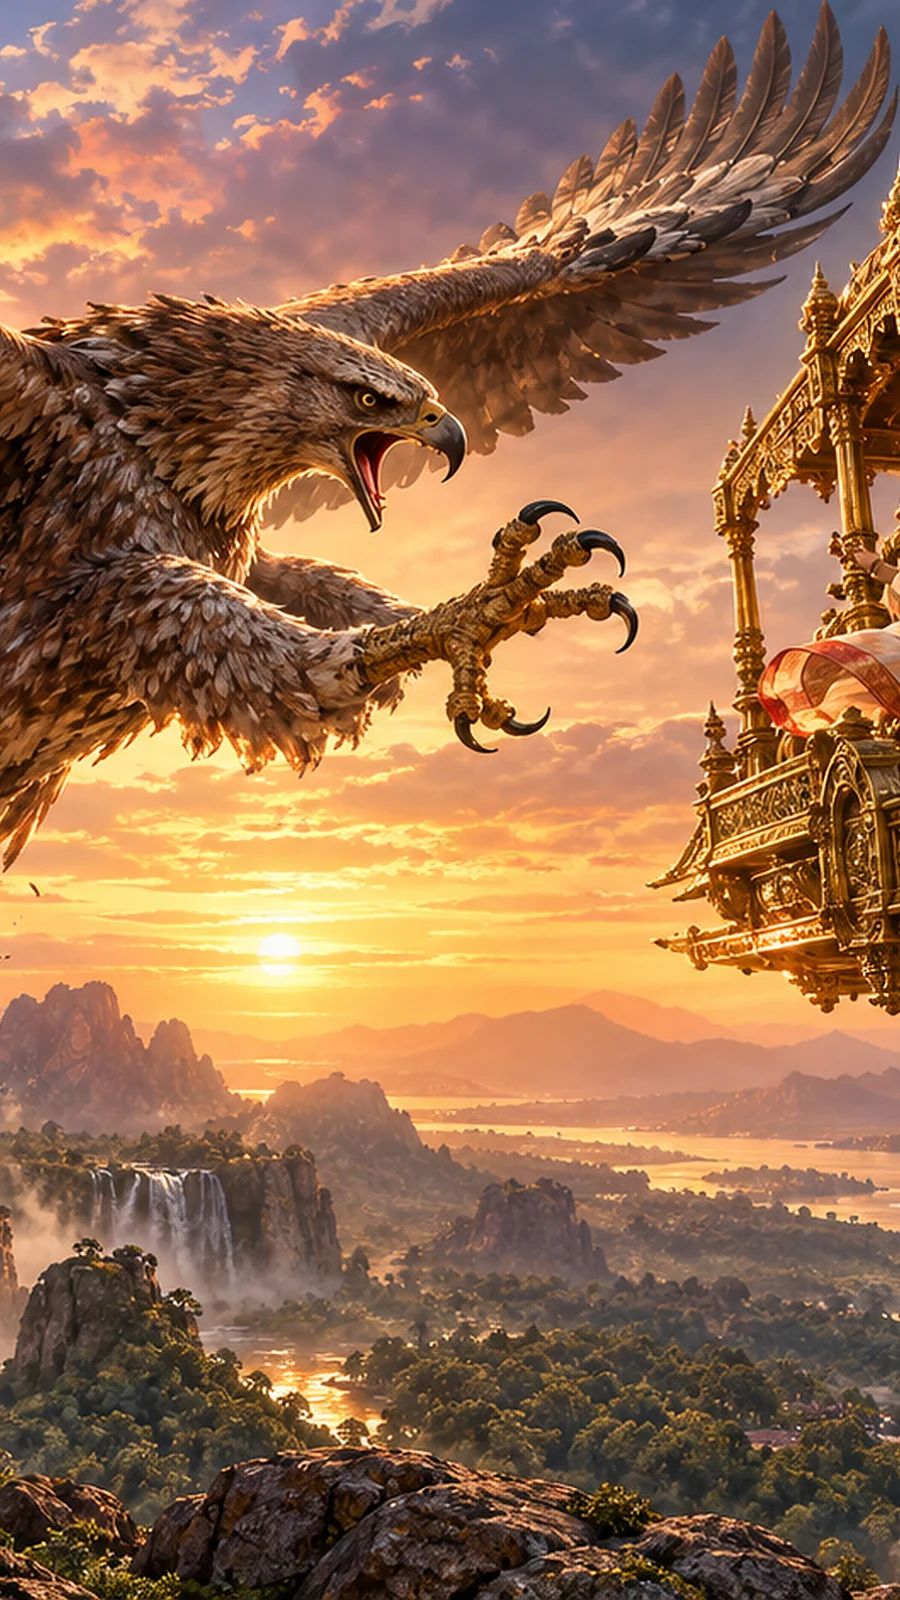
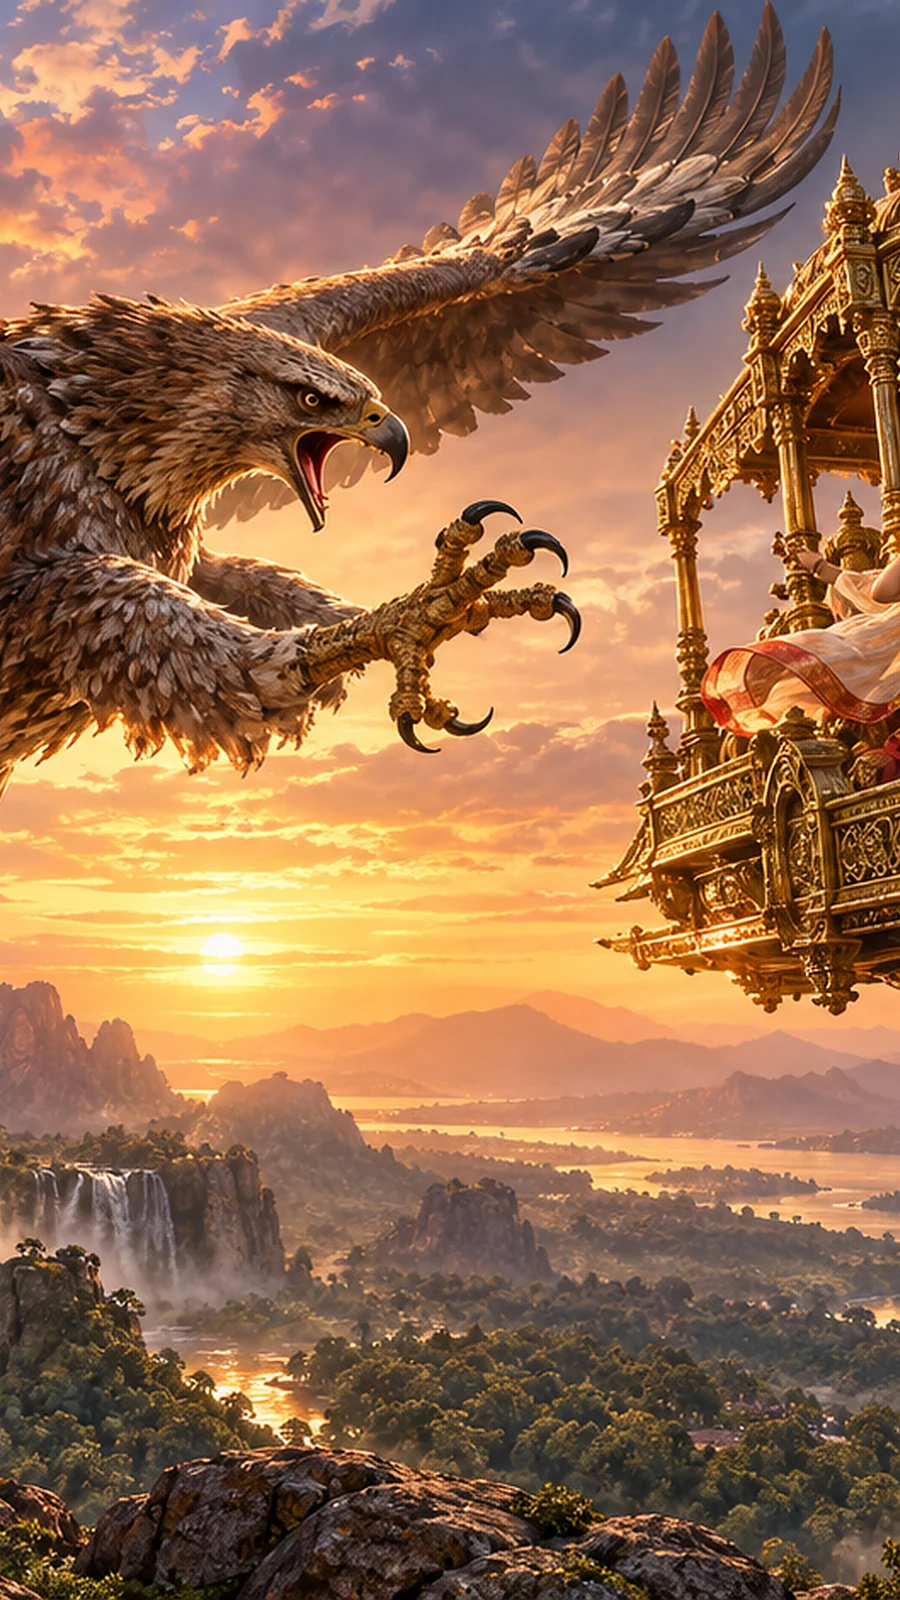
Part 3 of 5, and a focal point that was measuring the wrong thing
Five new pictures: Shabari's offering, the Mithila and Vanvaas chapters,
and the Vanavasa and Lanka world plates. Two sources/ copies hash
identical to in-use files already applied, so they are no-ops.

The focal point is now measured from DETAIL, not brightness, and every
picture from parts 1-3 is regenerated with it.

Found by looking at the output rather than the numbers. A luminance
centroid asks "where is the light", and in these paintings the light is
the sky, the water or the fire -- the subject is usually standing in
front of it. On the Vanvaas chapter the waterfall pulled the centroid to
0.61, and the phone crop taken around it cut Rama out of his own
chapter, leaving Sita and Lakshmana walking beside a gap. A local
gradient asks "where is the picture busiest", which figures, faces and
architecture answer and an open sky does not; saturation is folded in at
half weight so a painted figure outscores an equally busy patch of rock.
All fifteen portraits were checked on one contact sheet afterwards, and
every one keeps its subject.

The old code carried a hand-tuned focal on Vanvaas with a comment saying
it was pushed left so the figures would survive the crop. That was a
patch over this bug in the previous art. It is gone, and the comment now
records the cause.

Vanavasa is no longer a photograph. It was the last third-party picture
in the set -- Mystic Layers of Agumbe, CC0, by Pradyumnakp -- and the
[…]

diff --git a/frontend/src/themes/pinaka/assets/plates/index.ts b/frontend/src/themes/pinaka/assets/plates/index.ts
@@ -2,10 +2,11 @@
  * Pinaka theme — world plates.
  *
  * One picture per world plus the hero behind the sign-in page and the intro:
- * the official event paintings — the temple-city key art for Ayodhya, the
- * bridge to the far shore (Setu), the return (Vijaya) and the hero, Lanka
- * ablaze for Lanka — and one colour-graded photograph, the forest of
- * Vanavasa.
+ * every one of them an official event painting now — the temple-city key
+ * art for Ayodhya, the forest years for Vanavasa, and Lanka ablaze for
+ * Lanka. Vanavasa was the last photograph in the set (a CC0 frame of the
+ * Western Ghats at Agumbe) until the organisers painted that world for
+ * the final pack, so the set carries no third-party picture at all.
  * Every file is a same-origin asset bundled by Vite (a 1920 px and a 960 px
  * WebP, cover-cropped around `focal`). Licences and
  * sources are recorded here and in docs/pinaka/ASSETS.md; the untouched
@@ -43,7 +44,7 @@ const TEMPLE_ART: Plate = {
   width: 1920,
   height: 1080,
   alt: "Pinaka CTF key art: Rama, Sita and Lakshmana on the lamplit steps above the water, the temple-city of Ayodhya across the lake at sunset",
-  focal: { x: 0.5, y: 0.456 },
+  focal: { x: 0.475, y: 0.526 },
   sun: { x: 0.406, y: 0.281 },
   credit: {
     title: "Pinaka CTF 2026 key art",
@@ -122,17 +123,20 @@ export const PLATES: Record<PlateKey, Plate> = {
     portrait: vanavasaPortrait,
     width: 1920,
     height: 1080,
-    alt: "Mist rolling over layered forested hills of the Western Ghats at Agumbe, seen through foreground foliage",
-    focal: { x: 0.55, y: 0.45 },
-    // The light falls from the bright haze above the far ridge.
-    sun: { x: 0.5, y: -0.22 },
+    alt: "Rama, Lakshmana and Sita walking a forest trail at sunrise above a valley of waterfalls, a deer in the undergrowth",
+    focal: { x: 0.465, y: 0.53 },
+    sun: { x: 0.906, y: 0.156 },
+    // No longer the Agumbe photograph. The organisers painted this world
+    // themselves in the final pack, so the credit follows the picture: a
+    // CC0 photographer's name left on artwork they did not make would be
+    // a false record, which is what this field exists to prevent.
     credit: {
-      title: "Mystic Layers of Agumbe",
-      author: "Pradyumnakp",
-      license: "CC0",
-      licenseUrl: "http://creativecommons.org/publicdomain/zero/1.0/deed.en",
-      sourceUrl: "https://commons.wikimedia.org/wiki/File:Mystic_Layers_of_Agumbe.jpg",
-      photo: true,
+      title: "Vanavasa — the forest years",
+      author: "Pinaka CTF · NFSU Chennai",
+      license: "Official event artwork",
+      licenseUrl: "https://pinakactf.com/",
+      sourceUrl: "https://pinakactf.com/",
+      photo: false,
     },
   },
   setu: TEMPLE_ART,
@@ -145,8 +149,8 @@ export const PLATES: Record<PlateKey, Plate> = {
     height: 1080,
     alt: "Pinaka CTF artwork: the fortress of Lanka ablaze above a smoking battlefield",
     // keeps the fortress and the fire on wide screens, the burning gate on phones
-    focal: { x: 0.42, y: 0.4 },
-    sun: { x: 0.8, y: 0.48 },
+    focal: { x: 0.483, y: 0.517 },
+    sun: { x: 0.719, y: 0.156 },
     credit: {
       title: "Lanka ablaze — Pinaka CTF 2026 artwork",
       author: "Pinaka CTF · NFSU Chennai",
@@ -205,7 +209,8 @@ export function chapterPlateKey(id: ChapterId): ChapterPlateKey {
   return `chapter-${id}`;
 }
 
-/* The on-screen credit line is gone — the one photograph in the set is
-   CC0, a public-domain dedication, which asks for no attribution. Every
-   plate still carries its own `credit`, and docs/pinaka/ASSETS.md remains
-   the record of where each picture came from. */
+/* The on-screen credit line is gone, and now there is nothing it could
+   have said: every plate in the set is the organisers' own artwork. The
+   last third-party picture was Vanavasa's CC0 photograph, which asked for
+   no attribution either. Every plate still carries its own `credit`, and
+   docs/pinaka/ASSETS.md remains the record of where each came from. */

diff --git a/frontend/src/themes/pinaka/assets/scenes/index.ts b/frontend/src/themes/pinaka/assets/scenes/index.ts
@@ -103,7 +103,7 @@ export const SCENE_PLATES: Record<SceneId, Plate> = {
     w3840: goldenDeer3840, w1920: goldenDeer1920, w960: goldenDeer960, portrait: goldenDeerPortrait,
     width: 1920, height: 1080,
     alt: 'Pinaka CTF battle scene: a golden deer in a sunlit forest glade, a hermitage and waterfall beyond',
-    focal: { x: 0.519, y: 0.43 },
+    focal: { x: 0.476, y: 0.528 },
     sun: { x: 0.594, y: 0.031 },
     credit: {
       title: 'Pinaka CTF 2026 battle scenes',
@@ -118,7 +118,7 @@ export const SCENE_PLATES: Record<SceneId, Plate> = {
     w3840: jatayu3840, w1920: jatayu1920, w960: jatayu960, portrait: jatayuPortrait,
     width: 1920, height: 1080,
     alt: 'Pinaka CTF battle scene: a great bird fallen among rocks at dusk',
-    focal: { x: 0.47, y: 0.474 },
+    focal: { x: 0.49, y: 0.491 },
     sun: { x: 0.406, y: 0.594 },
     credit: {
       title: 'Pinaka CTF 2026 battle scenes',
@@ -133,8 +133,8 @@ export const SCENE_PLATES: Record<SceneId, Plate> = {
     w3840: shabari3840, w1920: shabari1920, w960: shabari960, portrait: shabariPortrait,
     width: 1920, height: 1080,
     alt: 'Pinaka CTF battle scene: Shabari offering berries to two travellers outside her hut',
-    focal: { x: 0.675, y: 0.398 },
-    sun: { x: 0.969, y: 0.156 },
+    focal: { x: 0.494, y: 0.53 },
+    sun: { x: 0.156, y: 0.156 },
     credit: {
       title: 'Pinaka CTF 2026 battle scenes',
       author: 'Pinaka CTF · NFSU Chennai',
@@ -148,7 +148,7 @@ export const SCENE_PLATES: Record<SceneId, Plate> = {
     w3840: hanumanLeap3840, w1920: hanumanLeap1920, w960: hanumanLeap960, portrait: hanumanLeapPortrait,
     width: 1920, height: 1080,
     alt: 'Pinaka CTF battle scene: a vast leap across open sea from a cliff',
-    focal: { x: 0.509, y: 0.443 },
+    focal: { x: 0.447, y: 0.53 },
     sun: { x: 0.656, y: 0.406 },
     credit: {
       title: 'Pinaka CTF 2026 battle scenes',
@@ -163,7 +163,7 @@ export const SCENE_PLATES: Record<SceneId, Plate> = {
     w3840: ashokaVatika3840, w1920: ashokaVatika1920, w960: ashokaVatika960, portrait: ashokaVatikaPortrait,
     width: 1920, height: 1080,
     alt: 'Pinaka CTF battle scene: a woman seated beneath a tree in a guarded palace garden',
-    focal: { x: 0.575, y: 0.532 },
+    focal: { x: 0.483, y: 0.541 },
     sun: { x: 0.906, y: 0.094 },
     credit: {
       title: 'Pinaka CTF 2026 battle scenes',
@@ -178,7 +178,7 @@ export const SCENE_PLATES: Record<SceneId, Plate> = {
     w3840: lankaDahan3840, w1920: lankaDahan1920, w960: lankaDahan960, portrait: lankaDahanPortrait,
     width: 1920, height: 1080,
     alt: 'Pinaka CTF battle scene: a city skyline taken by fire',
-    focal: { x: 0.509, y: 0.462 },
+    focal: { x: 0.486, y: 0.509 },
     sun: { x: 0.719, y: 0.094 },
     credit: {
       title: 'Pinaka CTF 2026 battle scenes',
@@ -193,7 +193,7 @@ export const SCENE_PLATES: Record<SceneId, Plate> = {
     w3840: sanjeevani3840, w1920: sanjeevani1920, w960: sanjeevani960, portrait: sanjeevaniPortrait,
     width: 1920, height: 1080,
     alt: 'Pinaka CTF battle scene: a mountain carried under moonlight',
-    focal: { x: 0.56, y: 0.55 },
+    focal: { x: 0.485, y: 0.574 },
     sun: { x: 0.844, y: 0.281 },
     credit: {
       title: 'Pinaka CTF 2026 battle scenes',
@@ -268,7 +268,7 @@ export const SCENE_PLATES: Record<SceneId, Plate> = {
     w3840: ravanaHeads3840, w1920: ravanaHeads1920, w960: ravanaHeads960, portrait: ravanaHeadsPortrait,
     width: 1920, height: 1080,
     alt: 'Pinaka CTF battle scene: Ravana crowned and armoured above his citadel, his ten heads against a red sky',
-    focal: { x: 0.533, y: 0.455 },
+    focal: { x: 0.511, y: 0.507 },
     sun: { x: 0.969, y: 0.281 },
     credit: {
       title: 'Pinaka CTF 2026 battle scenes',

diff --git a/frontend/src/themes/pinaka/assets/chapters/index.ts b/frontend/src/themes/pinaka/assets/chapters/index.ts
@@ -60,26 +60,28 @@ export const CHAPTER_PLATES: Record<ChapterId, ChapterPlate> = {
     w3840: ayodhya3840, w1920: ayodhya1920, w960: ayodhya960, portrait: ayodhyaPortrait,
     width: 3840, height: 2160,
     alt: 'Rama, Sita, Lakshmana and Hanuman on a garlanded terrace at sunrise, the ghats, boats and temple spires of Ayodhya along the river below',
-    focal: { x: 0.53, y: 0.401 },
+    focal: { x: 0.422, y: 0.547 },
     sun: { x: 0.531, y: 0.344 },
     credit: { title: 'Ayodhya — the beginning', ...EVENT_ART },
   },
   mithila: {
     w3840: mithila3840, w1920: mithila1920, w960: mithila960, portrait: mithilaPortrait,
     width: 3840, height: 2160,
-    alt: 'The great bow resting on its carved pedestal in a pillared court at dusk, lamps and petals across the floor',
-    focal: { x: 0.55, y: 0.48 },
-    sun: { x: 0.281, y: 0.344 },
+    alt: 'The great bow garlanded on its carved pedestal in a sunlit pillared court, King Janaka and the assembled suitors looking on',
+    focal: { x: 0.468, y: 0.54 },
+    sun: { x: 0.656, y: 0.031 },
     credit: { title: 'Mithila — the trial of Pinaka', ...EVENT_ART },
   },
   vanvaas: {
     w3840: vanvaas3840, w1920: vanvaas1920, w960: vanvaas960, portrait: vanvaasPortrait,
     width: 3840, height: 2160,
-    alt: 'Rama, Sita and Lakshmana walking a forest path beside a stream in the morning light',
-    // left of centre, and the portrait crop is taken further left again, so
-    // the three figures stay in frame instead of being cropped away
-    focal: { x: 0.42, y: 0.5 },
-    sun: { x: 0.781, y: 0.094 },
+    alt: 'Rama, Sita and Lakshmana walking a forest path beside a rushing stream, deer in the shade and a far temple above the falls',
+    // Measured from detail rather than brightness, which is what keeps all
+    // three in frame here: the waterfall is the brightest thing in the
+    // painting, and a luminance centroid put the focal at 0.61, far enough
+    // right that the phone crop cut Rama out of his own chapter.
+    focal: { x: 0.478, y: 0.541 },
+    sun: { x: 0.719, y: 0.094 },
     credit: { title: 'Vanvaas — into the forest', ...EVENT_ART },
   },
   kishkindha: {
@@ -102,7 +104,7 @@ export const CHAPTER_PLATES: Record<ChapterId, ChapterPlate> = {
     w3840: lanka3840, w1920: lanka1920, w960: lanka960, portrait: lankaPortrait,
     width: 3840, height: 2160,
     alt: 'Rama and Hanuman on the rocks above the golden gates of Lanka at sunset, the armies drawn up beneath the walls',
-    focal: { x: 0.443, y: 0.399 },
+    focal: { x: 0.487, y: 0.514 },
     sun: { x: 0.219, y: 0.281 },
     credit: { title: 'Lanka — the final war', ...EVENT_ART },
   },

diff --git a/docs/pinaka/ASSETS.md b/docs/pinaka/ASSETS.md
@@ -108,7 +108,7 @@ and anchors its bloom and god rays there.
 | Plate key | Files | Where | Source | Author | Licence | Focal | Sun | Notes | Mean lum. | 1920 | 960 |
 |---|---|---|---|---|---|---|---|---|---|---|---|
 | `ayodhya`, `hero` | `temple-1920.webp` (1920×926), `temple-960.webp` (960×463) | Chapter I — profile, team, settings, admin, the board before the event; the sign-in page and the intro | [pinakactf.com](https://pinakactf.com/) site painting | Pinaka CTF · NFSU Chennai | Official event artwork | 0.59, 0.66 | 0.602, 0.68 | The sun behind the tallest spire is the focal point, so a portrait phone keeps the temple. The padlock and circuit motifs in the sky are part of the art. | 0.22 | 163 KB | 66 KB |
-| `vanavasa` | `vanavasa-1920.webp`, `vanavasa-960.webp` (16:9) | Chapter II — the challenge board | [Mystic Layers of Agumbe](https://commons.wikimedia.org/wiki/File:Mystic_Layers_of_Agumbe.jpg) | Pradyumnakp | [CC0](http://creativecommons.org/publicdomain/zero/1.0/deed.en) | 0.55, 0.45 | 0.50, −0.22 | Cropped to the middle band of the 4:3 source (source x 0.50, y 0.47): the stacked misty ridges, the canopy below. The light falls from the haze above the frame. | 0.32 | 239 KB | 56 KB |
+| `vanavasa` | `vanavasa-3840/1920/960/portrait.webp` (16:9) | Chapter II — the challenge board | Pinaka final art pack, `world--vanavasa` | Pinaka CTF · NFSU Chennai | Official event artwork | 0.465, 0.530 | 0.906, 0.156 | **No longer a photograph.** Until the final pack this was *Mystic Layers of Agumbe* by Pradyumnakp ([CC0](http://creativecommons.org/publicdomain/zero/1.0/deed.en), [source](https://commons.wikimedia.org/wiki/File:Mystic_Layers_of_Agumbe.jpg)); the organisers painted the world themselves, so the credit moved with the picture and the plate set now contains no third-party image at all. Rama, Lakshmana and Sita on a forest trail at sunrise above a valley of waterfalls. | 0.40 | 1420 KB (3840) | — |
 | `setu` | `setu-1920.webp`, `setu-960.webp` (16:9) | Chapter III — the chained board | [Limestone shoals between mainland India and Sri Lanka](https://images.nasa.gov/details/iss071e700080) | NASA / ISS Expedition 71 | [Public domain (NASA)](https://www.nasa.gov/nasa-brand-center/images-and-media/) | 0.46, 0.42 | 0.62, −0.26 | Cropped 1.5x into the source around the shoal chain (source x 0.47, y 0.34) so Dhanushkodi, the shoals and Mannar island span the middle of the plate. Seen from orbit there is no horizon: the light comes down from above. | 0.28 | 69 KB | 22 KB |
 | `lanka` | `lanka-art-1920.webp`, `lanka-art-960.webp` (1920×1080, 960×540) | Chapter IV — scoreboard, teams, users | pinakactf.com Lanka painting | Pinaka CTF · NFSU Chennai | Official event artwork | 0.42, 0.40 | 0.80, 0.48 | The fortress burns at the upper left, the fire glows at the right. The focal keeps both on a wide screen and the burning gate and near wall on a portrait one; the fire is the scene's sun. | 0.12 | 137 KB | 47 KB |
 | `vijaya` | `vijaya-1920.webp`, `vijaya-960.webp` (16:9) | Chapter V — every screen once the event has ended | [Ram ki Paidi](https://commons.wikimedia.org/wiki/File:Ram_ki_Paidi.jpg) | AyodhyaDiary | [CC BY-SA 4.0](https://creativecommons.org/licenses/by-sa/4.0) | 0.63, 0.35 | 0.627, 0.289 | Cropped to the lower 86 % of the 3:2 source (source x 0.50, y 0.62): the sun and the domes at the centre, the photographer's corner mark outside the plate. A dusk silhouette, so its mean stays low. | 0.21 | 27 KB | 10 KB |
